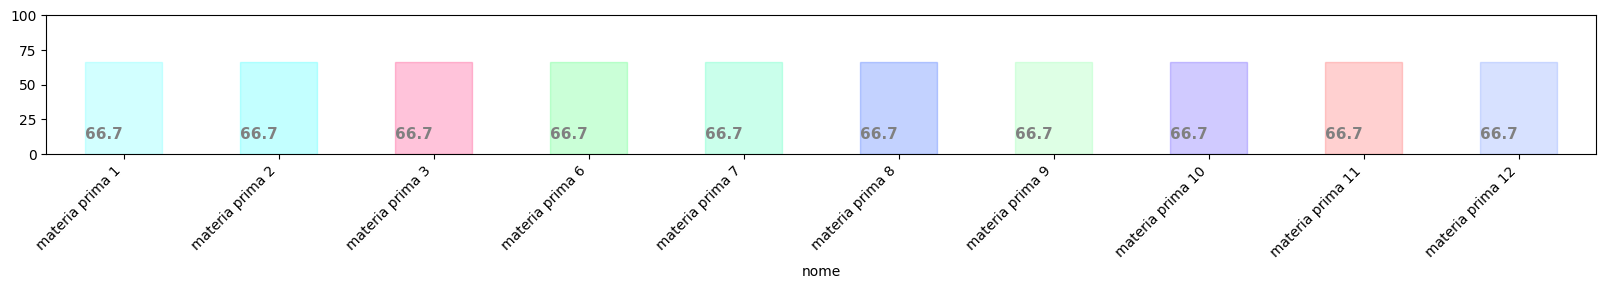
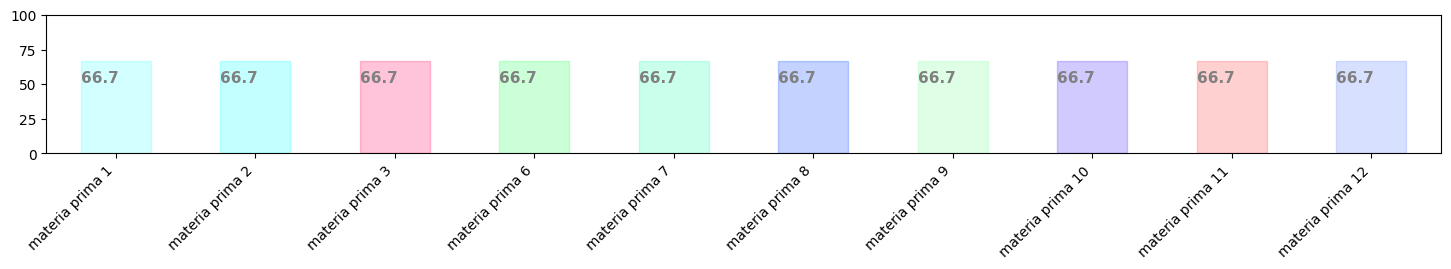
080321

diff --git a/kamaleao_kivy.py b/kamaleao_kivy.py
@@ -70,6 +70,22 @@ dia TEXT NOT NULL,
 
 """
 
+createTable_relatorios_sales_rate= """
+
+CREATE TABLE relatorio_saida_materia_prima(
+
+id INTEGER PRIMARY KEY AUTOINCREMENT,
+nome_mp TEXT NOT NULL,
+quantidade_saida REAL NOT NULL,
+sales_rate REAL NOT NULL,
+data TEXT NOT NULL
+)
+
+
+"""
+
+
+
 conn_kamaleao = sqlite3.connect('kamaleao.db')
 cursor_kamaleao = conn_kamaleao.cursor()
 
@@ -78,6 +94,7 @@ cursor = conn.cursor()
 
 conn_forms = sqlite3.connect('forms.db')
 cursor_forms = conn_forms.cursor()
+
 
 
 # tempo em sqlite
@@ -372,6 +389,7 @@ class KamaleãoApp(App):
                     print("NOME NÃO EXISTE NO BANCO DE DADOS")
 
             def produzir_func(instance):
+                print(formula_formatada)
                 # essa é a função do botão de produzir#
                 # primeira coisa que tem que fazer é declarar uma variável booleana#
                 # pra só produzir se todos os requirements forem satisfeitos
@@ -411,14 +429,59 @@ class KamaleãoApp(App):
 
                         # e aqui atualiza o relatório #
 
-                        ####### RELATORIO ########
+                        ####### RELATORIO_fluxo ########
                         cursor_kamaleao.execute("SELECT datetime('now', 'localtime')")
                         time_value = cursor_kamaleao.fetchone()[0]
-                        for i in range(len(esqueda_baixo_area_direita_tabela)):
-                            valores_relatorios_producao = [esqueda_baixo_area_direita_tabela[i][0],
-                                                           esqueda_baixo_area_direita_tabela[i][1], time_value]
+                        for z in range(len(esqueda_baixo_area_direita_tabela)):
+                            valores_relatorios_producao = [esqueda_baixo_area_direita_tabela[z][0],
+                                                           esqueda_baixo_area_direita_tabela[z][1], time_value]
                             conn_kamaleao.execute("INSERT INTO relatorios_fluxo(produto,quantidade,dia) VALUES (?,?,?)",
                                                   valores_relatorios_producao)
+                        ## e aqui relatório sales_rate ##
+
+                        try:
+                            cursor_kamaleao.execute("SELECT date('now', 'localtime')")
+
+                            date = cursor_kamaleao.fetchone()[0]
+                            verificar_se_ja_existe = [i,date]
+                            cursor_kamaleao.execute("SELECT * FROM relatorio_saida_materia_prima WHERE nome_mp = ? AND data = ?",verificar_se_ja_existe)
+                            achou = cursor_kamaleao.fetchone()[0]
+                            cursor_kamaleao.execute("SELECT * FROM relatorio_saida_materia_prima WHERE nome_mp = ? AND data = ?",verificar_se_ja_existe)
+                            todas_infos = cursor_kamaleao.fetchall()
+                            print(todas_infos)
+                            nome_mp = todas_infos[0][1]
+                            quantidade = todas_infos[0][2]
+                            print("Quantidade antes: ",quantidade)
+                            quantidade = todas_infos[0][2]+ formula_formatada.get(i)
+                            print("Quantidade depois: ", quantidade)
+                            sales_rate = todas_infos[0][3]
+
+                            # ta dando erroa qui
+                            try:
+                                conn_kamaleao.execute("""
+                                UPDATE relatorio_saida_materia_prima SET quantidade_saida = {}  WHERE nome_mp = ? AND data = ?
+                                """.format(quantidade,achou),verificar_se_ja_existe)
+                            except Exception as e:
+                                print(e)
+
+                            print("achou",achou)
+
+
+                        except:
+
+                            print(date)
+                            tabela_pra_saleRate = [i,formula_formatada.get(i),date]
+                            print(tabela_pra_saleRate)
+                            conn_kamaleao.execute("""
+                            INSERT INTO relatorio_saida_materia_prima(
+                            nome_mp,quantidade_saida,sales_rate,data)
+                            VALUES(?,?,0,?)
+                            """,tabela_pra_saleRate)
+                            cursor_kamaleao.execute("SELECT * FROM relatorio_saida_materia_prima")
+                            print(cursor_kamaleao.fetchall())
+
+
+
                         esqueda_baixo_area_direita_tabela.clear()
                 else:
                     # aqui se o válido for falso, a gente pega os valores falsos e transforma#
@@ -850,7 +913,7 @@ class KamaleãoApp(App):
             cursor_kamaleao.execute('''SELECT rgb from materia_prima''')
             result = cursor_kamaleao.fetchall()
 
-            ax = df.plot.bar(x='nome', y='porcento', rot=0, figsize=(20, 1.8))
+            ax = df.plot.bar(x='nome', y='porcento', rot=0, figsize=(18, 1.8))
 
             childrenLS = ax.get_children()
             barlist = filter(lambda x: isinstance(x, matplotlib.patches.Rectangle), childrenLS)
@@ -882,7 +945,7 @@ class KamaleãoApp(App):
 
             for i, v in enumerate(porcento):
                 ax.text(i - .25,
-                        v / porcento[i] + 10,
+                        v / porcento[i] + 50,
                         round(porcento[i], 1),
                         fontsize=11,
                         color="gray",
@@ -892,6 +955,7 @@ class KamaleãoApp(App):
             plt.xticks(rotation=45, ha="right")
 
             plt.ylim(0, 100)
+            ax.set(xlabel='')
             ax.plot()
             plt.savefig("testando_plot", bbox_inches='tight')
 
@@ -908,7 +972,7 @@ class KamaleãoApp(App):
             cursor_kamaleao.execute('''SELECT rgb from materia_prima''')
             result = cursor_kamaleao.fetchall()
 
-            ax = df_2.plot.bar(x='nome', y='porcento', rot=0, figsize=(20, 1.8))
+            ax = df_2.plot.bar(x='nome', y='porcento', rot=0, figsize=(18, 1.8))
             porcento_2 = df_2["porcento"]
 
             childrenLS = ax.get_children()
@@ -951,7 +1015,13 @@ class KamaleãoApp(App):
             plt.xticks(rotation=45, ha="right")
 
             plt.ylim(0, 100)
+
+            ax.set(xlabel='')
+            # plt.setp(ax1.get_xticklabels(), visible=False)
+            # plt.setp(ax1.get_yticklabels(), visible=False)
+            ax.tick_params(axis='both', which='both', length=0)
             ax.plot()
+
             plt.savefig("testando_plot_2", bbox_inches='tight')
 
             plt.close()
